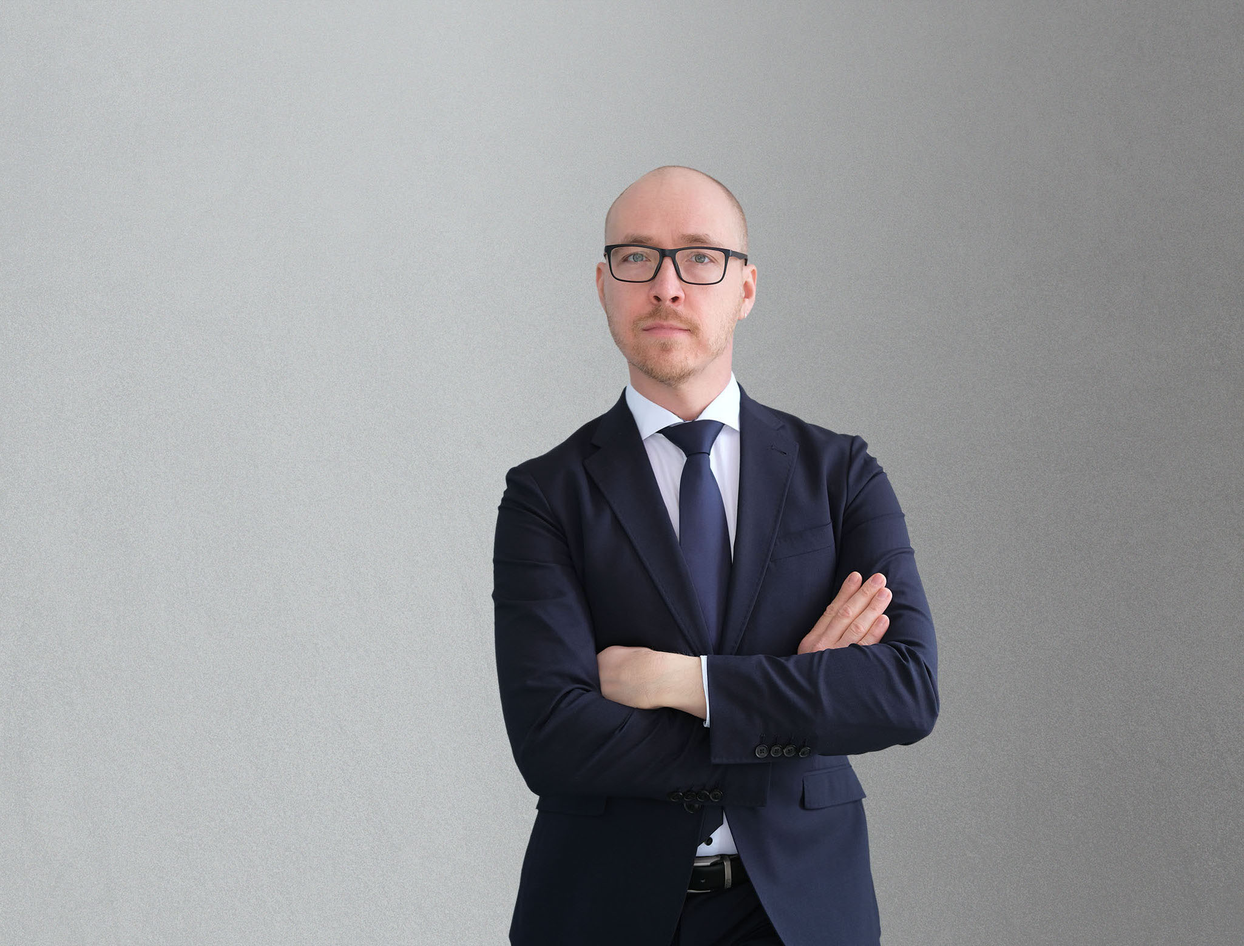
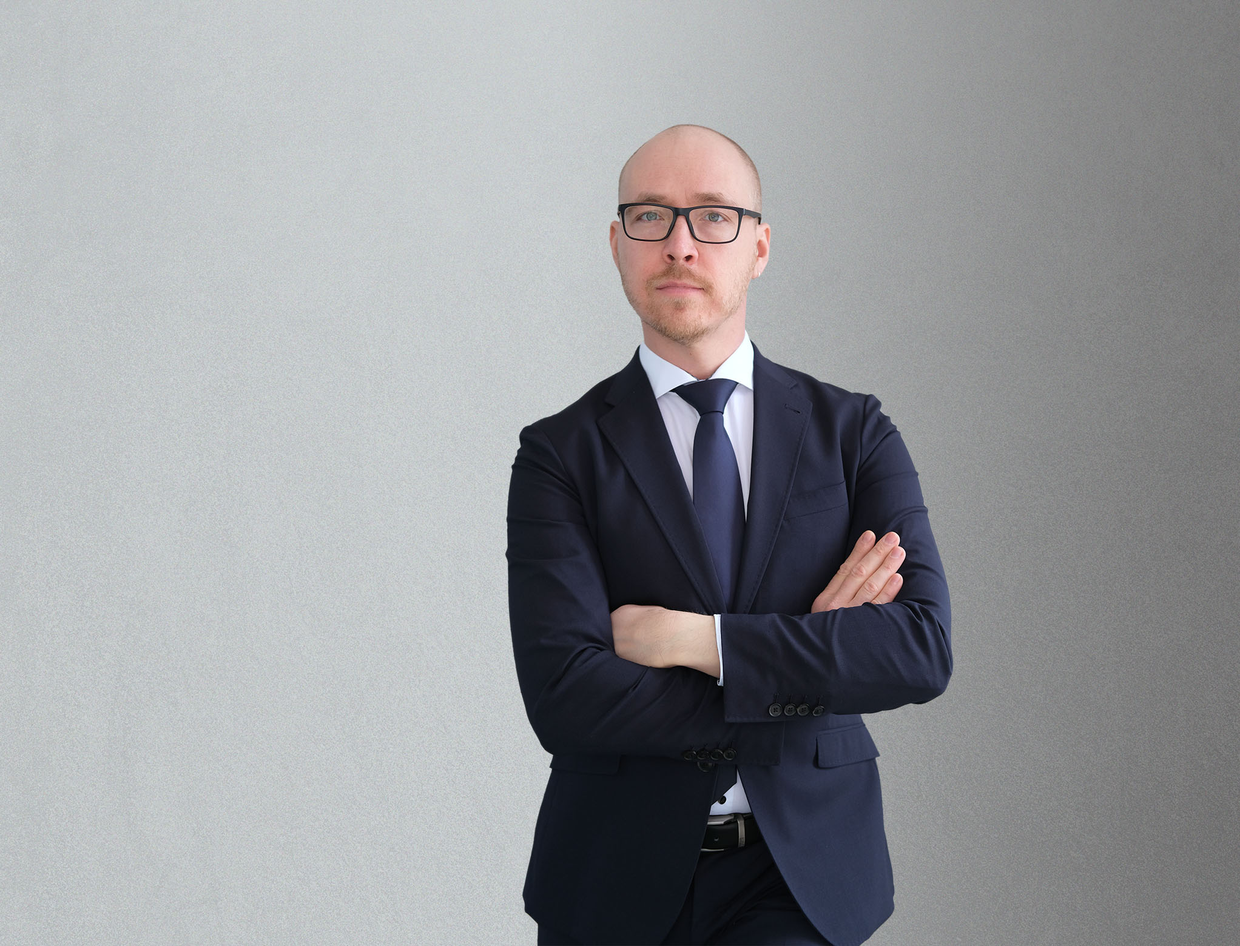
Image tweaks

Changed region(s): [[0.3699, 0.1231, 0.7705, 1.0], [0.5548, 0.8308, 0.7089, 1.0], [0.9863, 0.7077, 1.0, 0.8]]

diff --git a/css/style.css b/css/style.css
@@ -2448,9 +2448,9 @@ h1, h2, h3, h4, h5,
       margin-top: -90px; } }
 
 .illustration {
-	width: 35%;
-	height: 35%;
-	margin-bottom: 30px;
+	width: 20em;
+	height: 20em;
+	margin: 0px;
 	float: right;
 	display: block;
 	margin-left: auto;
